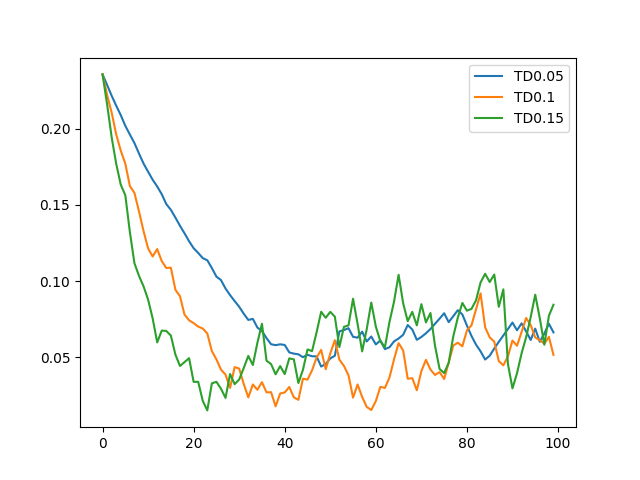
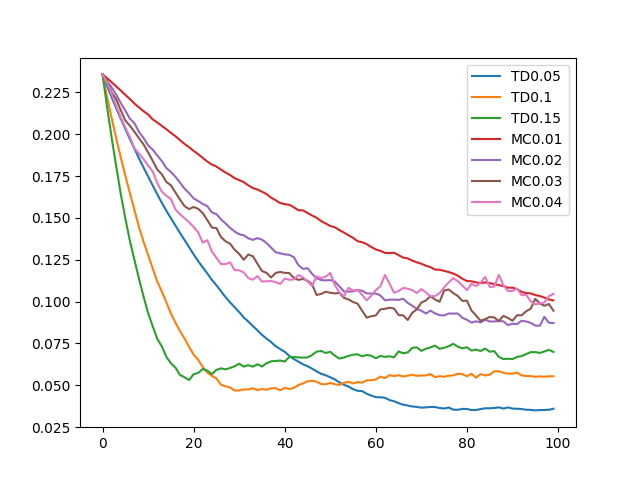
3.19

diff --git a/chapter6/Random_walk_fig6_7.py b/chapter6/Random_walk_fig6_7.py
@@ -8,71 +8,86 @@ def get_value_state_td(afa_td,episode):
     reward_tmp=np.broadcast_to([0,0],(4,2))
     reward=np.vstack((reward_tmp,[0,1]))
     lamda=1
-    RMS_td=np.zeros((len(afa_td),episode))
     value_state_true=np.arange(1,6)/6
+    RMS_td_100run_set=[]
+    RMS_td_100run=np.zeros((len(afa_td),episode))
+    for run in range(100):
+        RMS_td = np.zeros( (len( afa_td ), episode) )
+        for afa_tmp in afa_td:
+            value_state_episode=np.ones(5)*0.5
+            # for i in tqdm( range( episode )):
+            for i in  range( episode ) :
+                if i != 0:
+                    s_t_index = 2
+                    while True:
+                        s_t_value = value_state_episode[s_t_index]
+                        a = np.random.choice( policy[s_t_index] )
+                        s_nextt_index =  s_t_index + a
+                        reward_tmp = reward[s_t_index, max( a, 0 )]
+                        if s_nextt_index == 5 or s_nextt_index == -1:
+                            s_nextt_value = 0
+                            value_state_episode[s_t_index] = s_t_value + afa_tmp * (reward_tmp + lamda * s_nextt_value - s_t_value)
+                            break
+                        else:
+                            s_nextt_value = value_state_episode[s_nextt_index]
+                            value_state_episode[s_t_index] = s_t_value + afa_tmp * (reward_tmp + lamda * s_nextt_value - s_t_value)
+                            s_t_index = s_nextt_index
 
-    for afa_tmp in afa_td:
-        value_state_episode=np.ones(5)*0.5
-        for i in tqdm( range( episode )):
-            if i != 0:
-                s_t_index = 2
-                while True:
-                    s_t_value = value_state_episode[s_t_index]
-                    a = np.random.choice( policy[s_t_index] )
-                    s_nextt_index =  s_t_index + a
-                    reward_tmp = reward[s_t_index, max( a, 0 )]
-                    if s_nextt_index == 5 or s_nextt_index == -1:
-                        s_nextt_value = 0
-                        value_state_episode[s_t_index] = s_t_value + afa_tmp * (reward_tmp + lamda * s_nextt_value - s_t_value)
-                        break
-                    else:
-                        s_nextt_value = value_state_episode[s_nextt_index]
-                        value_state_episode[s_t_index] = s_t_value + afa_tmp * (reward_tmp + lamda * s_nextt_value - s_t_value)
-                        s_t_index = s_nextt_index
+                value_state_td[afa_td.index(afa_tmp),i, :] = value_state_episode
 
-            value_state_td[afa_td.index(afa_tmp),i, :] = value_state_episode
+        for afa_tmp in range(len(afa_td)):
+            RMS_td[afa_tmp,:]=np.power(np.average(np.power(value_state_td[afa_tmp,:,:]-value_state_true,2),axis = 1),0.5)
+        RMS_td_100run_set.append( RMS_td )
+    for i in range( len( RMS_td_100run_set[0] ) ):
+        RMS_td_100run[i, :] = np.average(np.array(RMS_td_100run_set)[:, i, :],axis=0)
+    return RMS_td_100run
 
-    for afa_tmp in range(len(afa_td)):
-        RMS_td[afa_tmp,:]=np.power(np.average(np.power(value_state_td[afa_tmp,:,:]-value_state_true,2),axis = 1),0.5)
-    return RMS_td
 def get_value_state_mc(afa_mc,episode):
     value_state_mc=np.zeros((len(afa_mc),episode,5))
     policy=np.broadcast_to([-1,1],(5,2))
     reward_tmp=np.broadcast_to([0,0],(4,2))
     reward=np.vstack((reward_tmp,[0,1]))
     lamda=1
-    RMS_mc=np.zeros((len(afa_mc),episode))
     value_state_true=np.arange(1,6)/6
+    RMS_mc_100run_set=[]
+    RMS_mc_100run=np.zeros((len(afa_mc),episode))
 
-    for afa_tmp in afa_mc:
-        value_state_episode=np.ones(5)*0.5
-        value_state_set_episode=[[] for x in range(5)]
-        for i in range(episode):
-            if i!=0:
-                state_sequence=[]
-                s_t_index=2
-                reward_whole=0
-                t=0
-                while True:
-                    if s_t_index not in state_sequence:
+    for run in range(100):
+        RMS_mc = np.zeros( (len( afa_mc ), episode) )
+        for afa_tmp in afa_mc:
+            value_state_episode=np.ones(5)*0.5
+            # value_state_set_episode=[[] for x in range(5)]
+            for i in range(episode):
+                if i!=0:
+                    state_sequence=[]
+                    s_t_index=2
+                    reward_whole=0
+                    t=0
+                    while True:
+                        # if s_t_index not in state_sequence:
                         state_sequence.append( s_t_index )
-                    a=np.random.choice(policy[s_t_index])
-                    s_nextt_index =  s_t_index + a
-                    reward_tmp = reward[s_t_index, max( a, 0 )]
-                    reward_whole=reward_whole+np.power(lamda,t)*reward_tmp
-                    t=t+1
-                    if s_nextt_index == 5 or s_nextt_index == -1:
-                        break
-                    s_t_index = s_nextt_index
-                for s_t_index_episode in state_sequence:
-                    value_state_set_episode[s_t_index_episode].append(reward_whole)
-                    value_state_episode[s_t_index_episode]=np.average(value_state_set_episode[s_t_index_episode])
+                        s_t_value = value_state_episode[s_t_index]
+                        a=np.random.choice(policy[s_t_index])
+                        s_nextt_index =  s_t_index + a
+                        reward_tmp = reward[s_t_index, max( a, 0 )]
+                        reward_whole=reward_whole+np.power(lamda,t)*reward_tmp
+                        t=t+1
+                        if s_nextt_index == 5 or s_nextt_index == -1:
+                            break
+                        s_t_index = s_nextt_index
+                    for s_t_index_episode in state_sequence:
+                        value_state_episode[s_t_index_episode]=value_state_episode[s_t_index_episode]+afa_tmp*(reward_whole-value_state_episode[s_t_index_episode])
+                        # value_state_set_episode[s_t_index_episode].append(reward_whole)
+                        # value_state_episode[s_t_index_episode]=np.average(value_state_set_episode[s_t_index_episode])
 
-            value_state_mc[afa_mc.index(afa_tmp),i, :] = value_state_episode
-    for afa_tmp in range(len(afa_mc)):
-        RMS_mc[afa_tmp,:]=np.power(np.average(np.power(value_state_mc[afa_tmp,:,:]-value_state_true,2),axis = 1),0.5)
+                value_state_mc[afa_mc.index(afa_tmp),i, :] = value_state_episode
+        for afa_tmp in range(len(afa_mc)):
+            RMS_mc[afa_tmp,:]=np.power(np.average(np.power(value_state_mc[afa_tmp,:,:]-value_state_true,2),axis = 1),0.5)
+        RMS_mc_100run_set.append(RMS_mc)
+    for i in range(len(RMS_mc_100run_set[0])):
+        RMS_mc_100run[i,:]=np.average( np.array( RMS_mc_100run_set )[:, i, :], axis = 0 )
 
-    return RMS_mc
+    return RMS_mc_100run
 
 
 
@@ -90,8 +105,8 @@ def figure6_7():
     fig,ax=plt.subplots(1,1)
     for i in range(len(RMS_td)):
         ax.plot(RMS_td[i],label='TD'+str(afa_td[i]))
-    # for i in range(len(RMS_mc)):
-    #     ax.plot(RMS_mc[i],label='MC'+str(afa_mc[i]))
+    for i in range(len(RMS_mc)):
+        ax.plot(RMS_mc[i],label='MC'+str(afa_mc[i]))
     plt.legend()
     plt.savefig('Randomwalk_6_7.png')
     plt.show()
